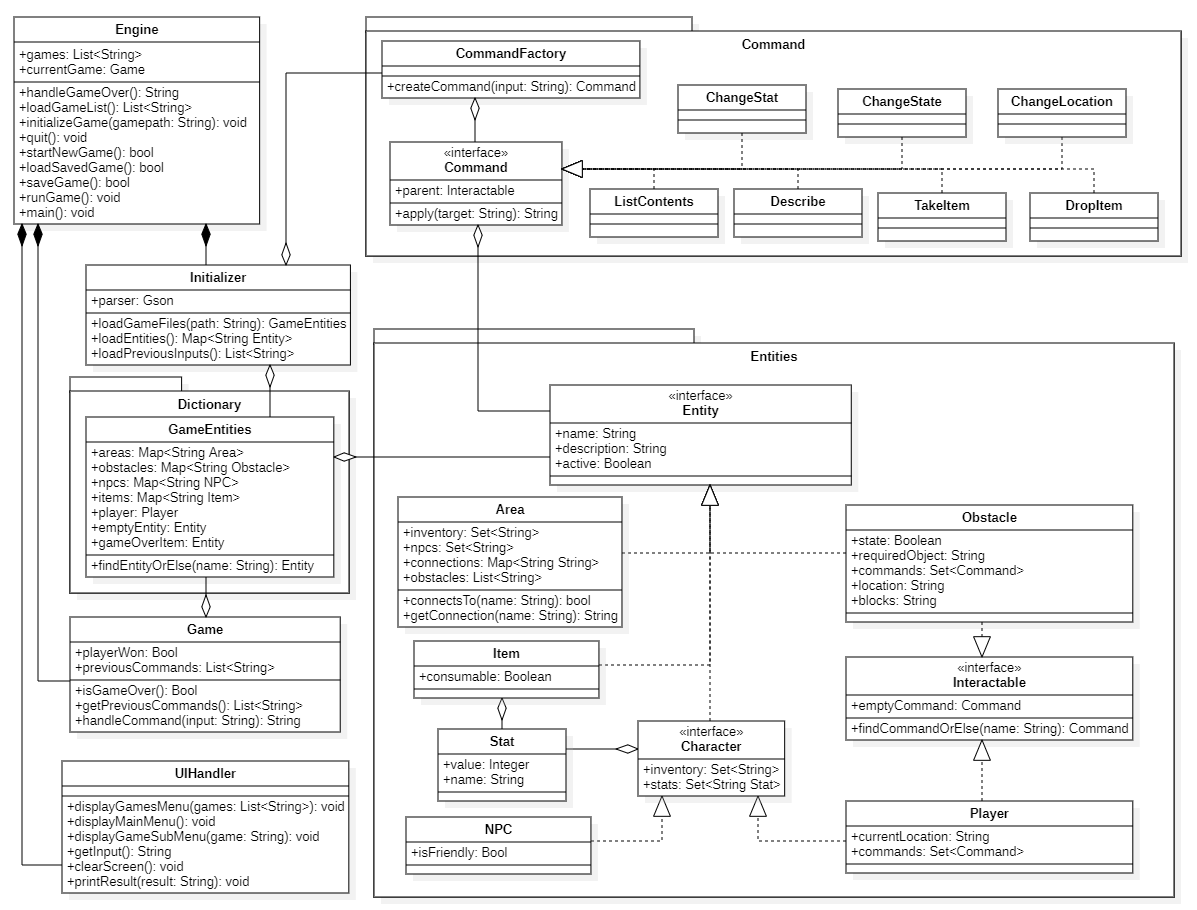
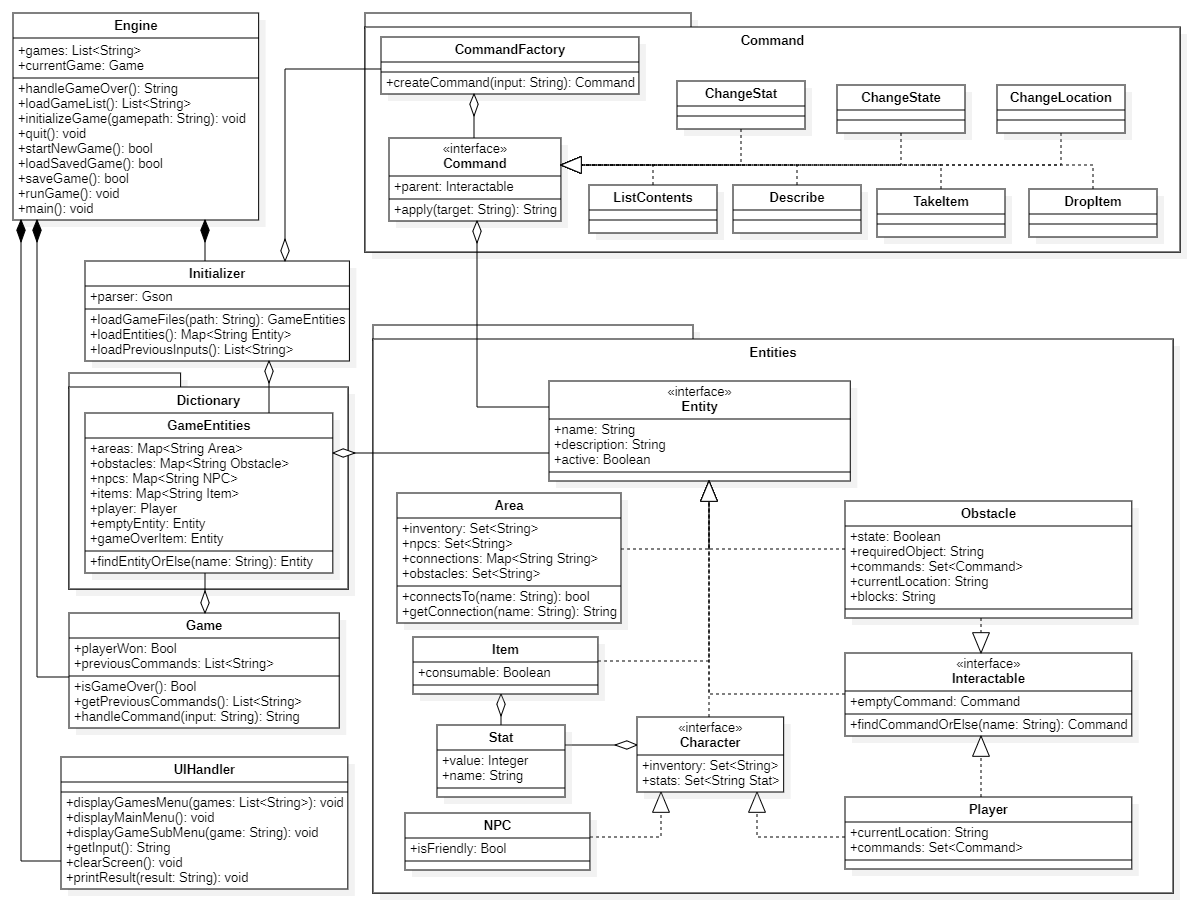
Fix mistakes in class diagram and descriptions in assignment2.md where Lists should have been Sets

diff --git a/docs/assignment2.md b/docs/assignment2.md
@@ -169,7 +169,7 @@ Attributes
 - *inventory: Set\<String\>* - Holds the names of all **Items** in the current area. **Entities** do not hold references to other **Entities**, but instead all interaction happens through the **GameEntities** class, in a data-oriented manner.
 - *npcs: Set\<String\>* - Holds the names of all **NPCs** that are in the given **Area**.
 - *connections: Map\<String, String\>* - Holds the names of all possible directions for the given **Area**, mapped to the name of the respective **Area**. For example, the *garden* **Area** might connect to the *palace* **Area**, and so *garden's* *connections* Map might contain the key:value pairs: "north":"palace" and "palace":"palace", allowing the player to type either "move north" or "move palace" and get the desired result.
-- *obstacles: List\<String\>* - Holds the names of all **Obstacles** in the given **Area**, allowing their descriptions to be printed when the player enters a room.
+- *obstacles: Set\<String\>* - Holds the names of all **Obstacles** in the given **Area**, allowing their descriptions to be printed when the player enters a room.
 
 Operations
 - *connectsTo(name: String): Boolean* - Verifies whether or not the given **Area** connects to some other **Area**.
@@ -222,7 +222,7 @@ Attributes
 - *state: Boolean* - Indicates whether or not the given **Obstacle** is currently active and thus preventing movement to a certain location.
 - *requiredObject: String* - Holds the name of the **Item** that can change the state of the given **Obstacle**, e.g. a "key" is required by a door, or a "lantern" by darkness.
 - *commands: Set\<Command\>* - Holds the list of **Commands** that relate to the **Obstacle**.
-- *location: String* - The name of the location the **Obstacle** is found in.
+- *currentLocation: String* - The name of the location the **Obstacle** is found in.
 - *blocks: String* - The name of the **Area** that the **Obstacle** prevents movement into.
 
 
